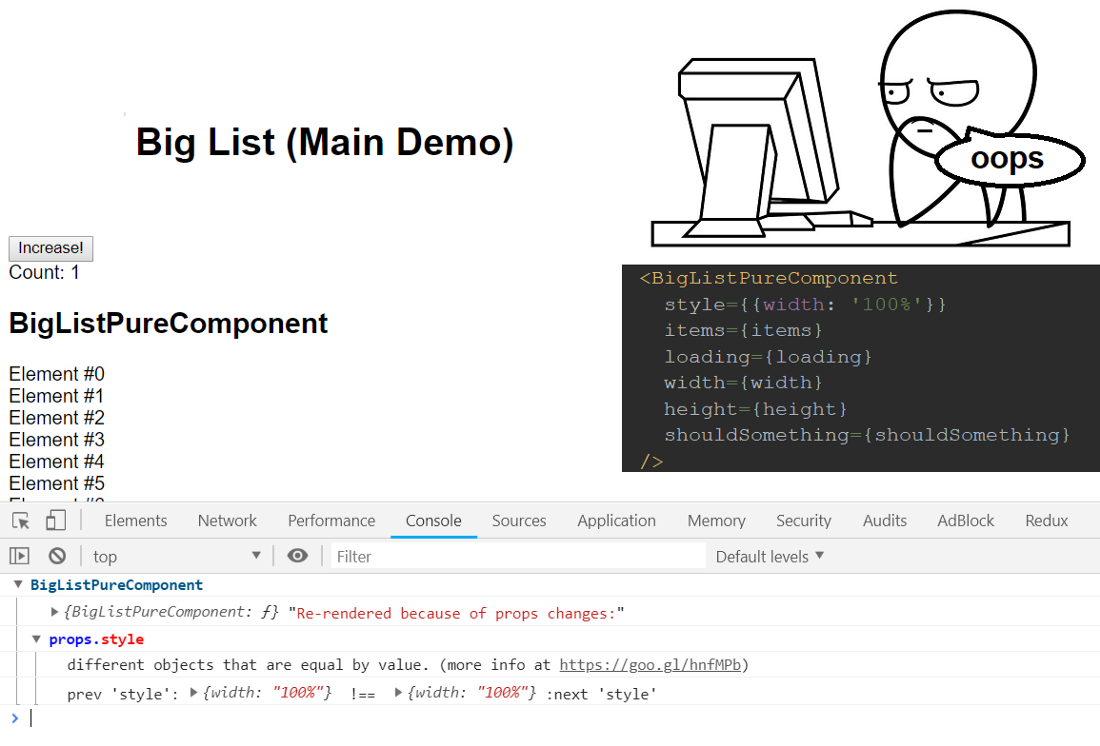
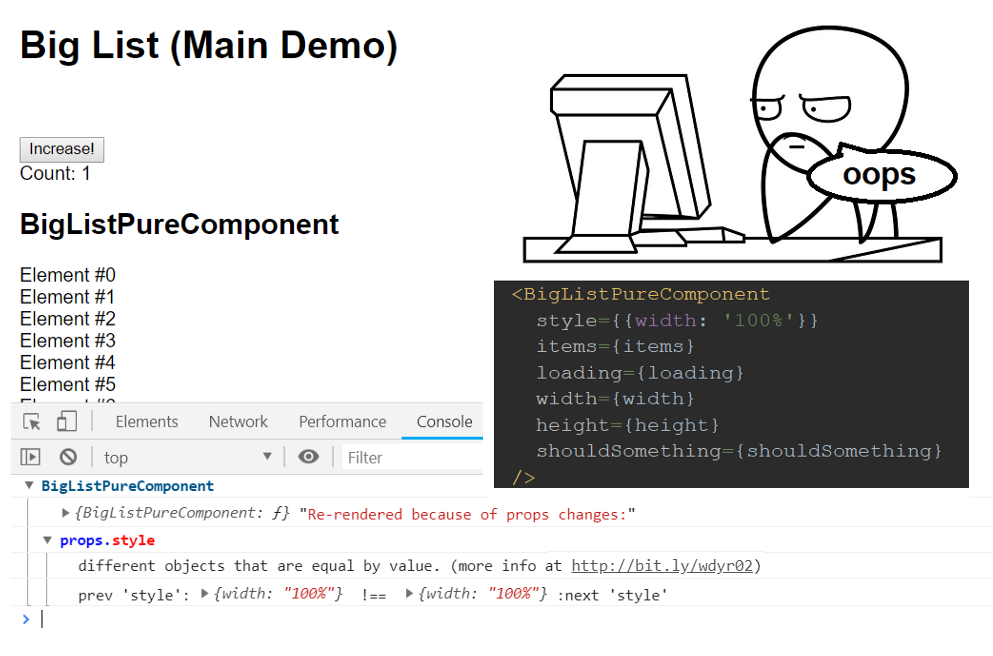
added special cases. improved all links.

diff --git a/demo/src/propsChanges/index.js b/demo/src/propsChanges/index.js
@@ -5,17 +5,13 @@ export default {
   fn({React, render, domElement, whyDidYouRender}){
     const stepLogger = createStepLogger()
 
-    whyDidYouRender(React, {
-      collapseGroups: true
-    })
+    whyDidYouRender(React)
 
-    class ClassDemo extends React.Component{
-      static whyDidYouRender = true
+    const ClassDemo = () => (
+      <div>Props Changes</div>
+    )
 
-      render(){
-        return <div>Props Changes</div>
-      }
-    }
+    ClassDemo.whyDidYouRender = true
 
     stepLogger('First render')
     render(<ClassDemo a={1} />, domElement)
@@ -30,15 +26,9 @@ export default {
     render(<ClassDemo a={{b: 'b'}} />, domElement)
 
     stepLogger('Other props')
-    render(<ClassDemo tooltip={<div>hi!</div>} list={[]} />, domElement)
+    render(<ClassDemo list={[]} />, domElement)
 
     stepLogger('Re-created react element', true)
-    render(<ClassDemo tooltip={<div>hi!</div>} list={[]} />, domElement)
-
-    stepLogger('different props')
-    render(<ClassDemo a={1} nestedFn={{fn: function something(){}}} />, domElement)
-
-    stepLogger('Re-created function', true)
-    render(<ClassDemo a={1} nestedFn={{fn: function something(){}}} />, domElement)
+    render(<ClassDemo list={[]} />, domElement)
   }
 }

diff --git a/demo/src/specialChanges/index.js b/demo/src/specialChanges/index.js
@@ -1,0 +1,40 @@
+import createStepLogger from '../createStepLogger'
+
+export default {
+  name: 'Special Changes',
+  fn({React, render, domElement, whyDidYouRender}){
+    const stepLogger = createStepLogger()
+
+    whyDidYouRender(React)
+
+    class ClassDemo extends React.Component{
+      static whyDidYouRender = true
+
+      render(){
+        return <div>Special Changes</div>
+      }
+    }
+
+    stepLogger('First render')
+    render(
+      <ClassDemo
+        regEx={/something/}
+        fn={function something(){}}
+        date={new Date('6/29/2011 4:52:48 PM UTC')}
+        reactElement={<div>hi!</div>}
+      />,
+      domElement
+    )
+
+    stepLogger('Same special props', true)
+    render(
+      <ClassDemo
+        regEx={/something/}
+        fn={function something(){}}
+        date={new Date('6/29/2011 4:52:48 PM UTC')}
+        reactElement={<div>hi!</div>}
+      />,
+      domElement
+    )
+  }
+}

diff --git a/src/defaultNotifier.js b/src/defaultNotifier.js
@@ -1,6 +1,6 @@
 import {diffTypes} from './consts'
 
-const moreInfoUrl = 'https://goo.gl/hnfMPb'
+const moreInfoUrl = 'http://bit.ly/wdyr02'
 
 const diffTypesDescriptions = {
   [diffTypes.different]: 'different objects.',
@@ -37,7 +37,7 @@ function logDifference(Component, displayName, prefixMessage, propsOrSate, diffe
     differences.forEach(({pathString, diffType, prevValue, nextValue}) => {
       options.consoleGroup(`%c${propsOrSate}.%c${pathString}%c`, 'color:blue;', 'color:red;', 'color:black;')
       options.consoleLog(`${diffTypesDescriptions[diffType]} (more info at ${moreInfoUrl})`)
-      options.consoleLog(`prev '${pathString}':`, prevValue, ' !== ', nextValue, `:next '${pathString}'`)
+      options.consoleLog({[`prev ${pathString}`]: prevValue}, '!==', {[`next ${pathString}`]: nextValue})
       options.consoleGroupEnd()
     })
   }

diff --git a/demo/src/index.js b/demo/src/index.js
@@ -6,6 +6,7 @@ import propsChanges from './propsChanges'
 import stateChanges from './stateChanges'
 import bothChanges from './bothChanges'
 import noChanges from './noChanges'
+import specialChanges from './specialChanges'
 
 import whyDidYouRender from './whyDidYouRender'
 
@@ -14,7 +15,8 @@ const demosList = [
   propsChanges,
   stateChanges,
   bothChanges,
-  noChanges
+  noChanges,
+  specialChanges
 ]
 
 const domMenuElement = document.getElementById('menu')

diff --git a/demo/src/bigList/index.js b/demo/src/bigList/index.js
@@ -21,6 +21,7 @@ export default {
 
     const bigListStyle = {width: '100%'} // eslint-disable-line no-unused-vars
 
+    // Notice, that unlike the huge list, we don't track Main's re-renders because we don't care about it's re-renders.
     class Main extends React.Component{
       state = {count: 0}
       render(){

diff --git a/README.md b/README.md
@@ -11,12 +11,12 @@ For example, when you pass `style={{width: '100%'}}` to a big pure component and
 It can also help you to simply track when and why a certain component re-renders.
 
 You can read more about the library
-[>> HERE <<](https://medium.com/welldone-software/why-did-you-render-mr-big-pure-react-component-2a36dd86996f).
+[>> HERE <<](http://bit.ly/wdyr1).
 
 And about common fixing scenarios this library can hep with
-[>> HERE <<](https://medium.com/welldone-software/why-did-you-render-mr-big-pure-react-component-part-2-common-fixing-scenarios-667bfdec2e0f).
+[>> HERE <<](http://bit.ly/wdyr02).
 
-You can test the library in it's sandbox [>> HERE <<](https://goo.gl/Gqb7wb).
+You can test the library in it's sandbox [>> HERE <<](http://bit.ly/wdyrsb).
 
 ### Setup
 ```
